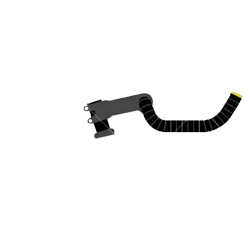
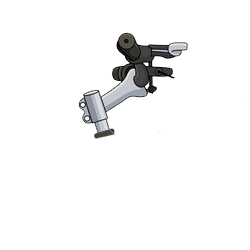
sport alap race kormány #21 #8

Changed region(s): [[0.308, 0.112, 0.98, 0.532]]

diff --git a/configData.js b/configData.js
@@ -20,9 +20,8 @@ const configData = [
 
         'nemkérek;0;nemkérek;0;images/blank.png;30',
         'kormány1;100;kormány;0;images/kormany_alap.png;31',
-        'kormány2;100;kormány;0;images/kerek1.jpg;32',
-        'kormány3;100;kormány;0;images/kerek1.jpg;33',
-        'kormány4;100;kormány;0;images/kerek1.jpg;34',
+        'kormány2;100;kormány;0;images/kormany_sport.png;32',
+        'kormány3;100;kormány;0;images/kormany_race.png;33',
 
         'nemkérek;0;nemkérek;0;images/blank.png;40',
         'nyereg1;100;nyereg;0;images/nyereg_alap.png;41',

diff --git a/configurator.html b/configurator.html
@@ -54,9 +54,9 @@
         <p class="mb-0">kormány</p>
         <select class="dropdown" id="dropdownMenu">
           <option value="30">Nem kérek</option>
-          <option value="31">Option 1</option>
-          <option value="32">Option 2</option>
-          <option value="33">Option 3</option>
+          <option value="31">Alap kormány</option>
+          <option value="32">Sport kormány</option>
+          <option value="33">Verseny kormány</option>
         </select>
         <p class="mb-0">nyereg</p>
         <select class="dropdown" id="dropdownMenu">

diff --git a/config.js b/config.js
@@ -57,6 +57,7 @@ function putOnCanvas(event){
                 handlebarImg.src = item.path;
                 handlebarImg.price = item.price
                 buildPrice += item.price;
+                console.log(item)
                 console.log("KORMÁNY");
             }
             else if(item.id.startsWith(4)){
